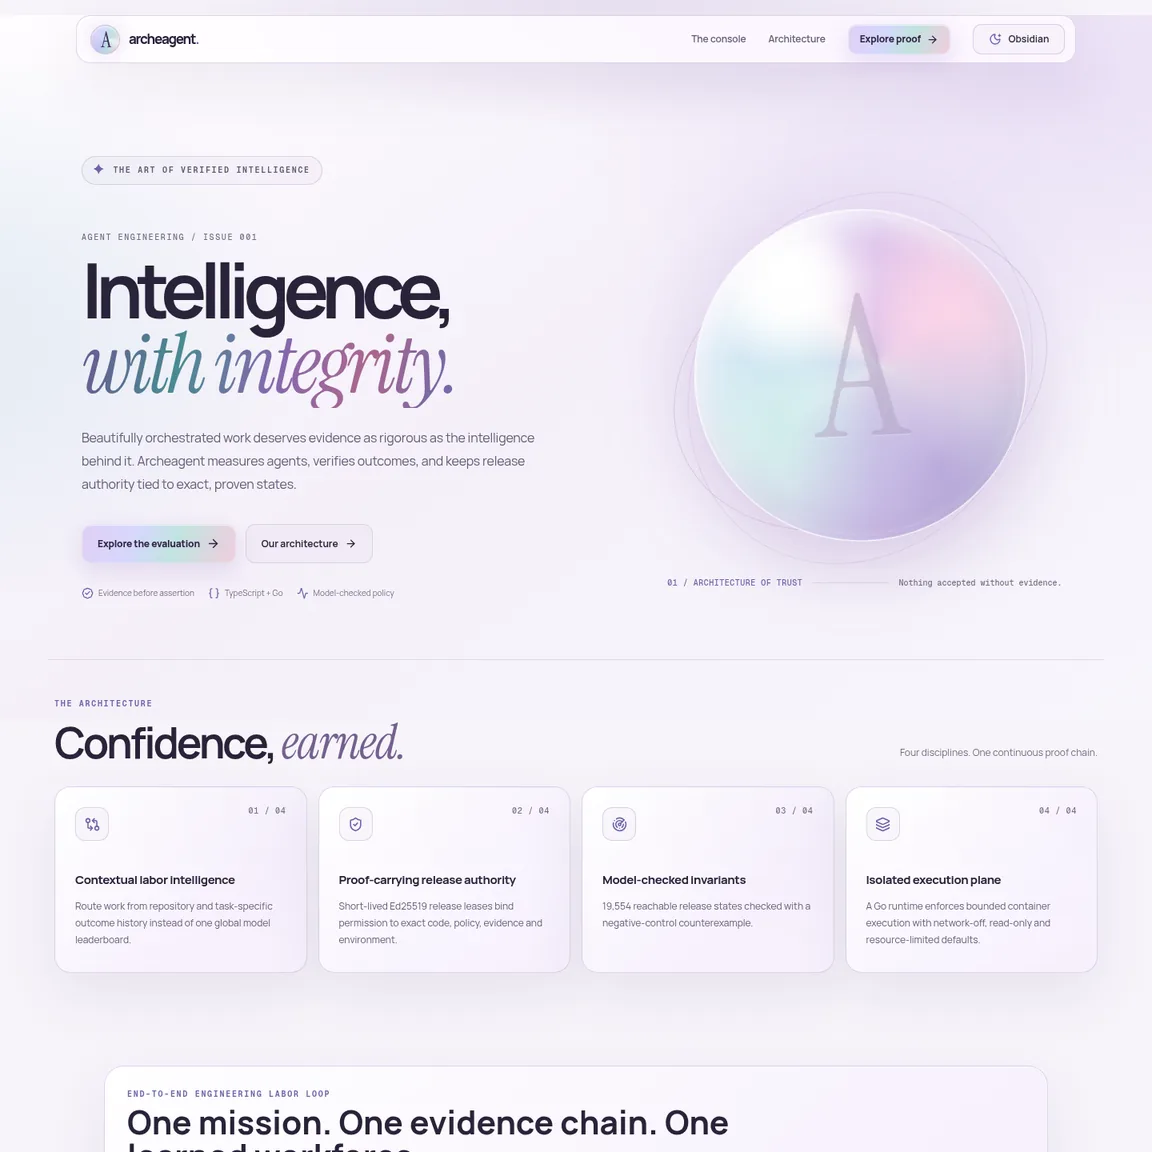
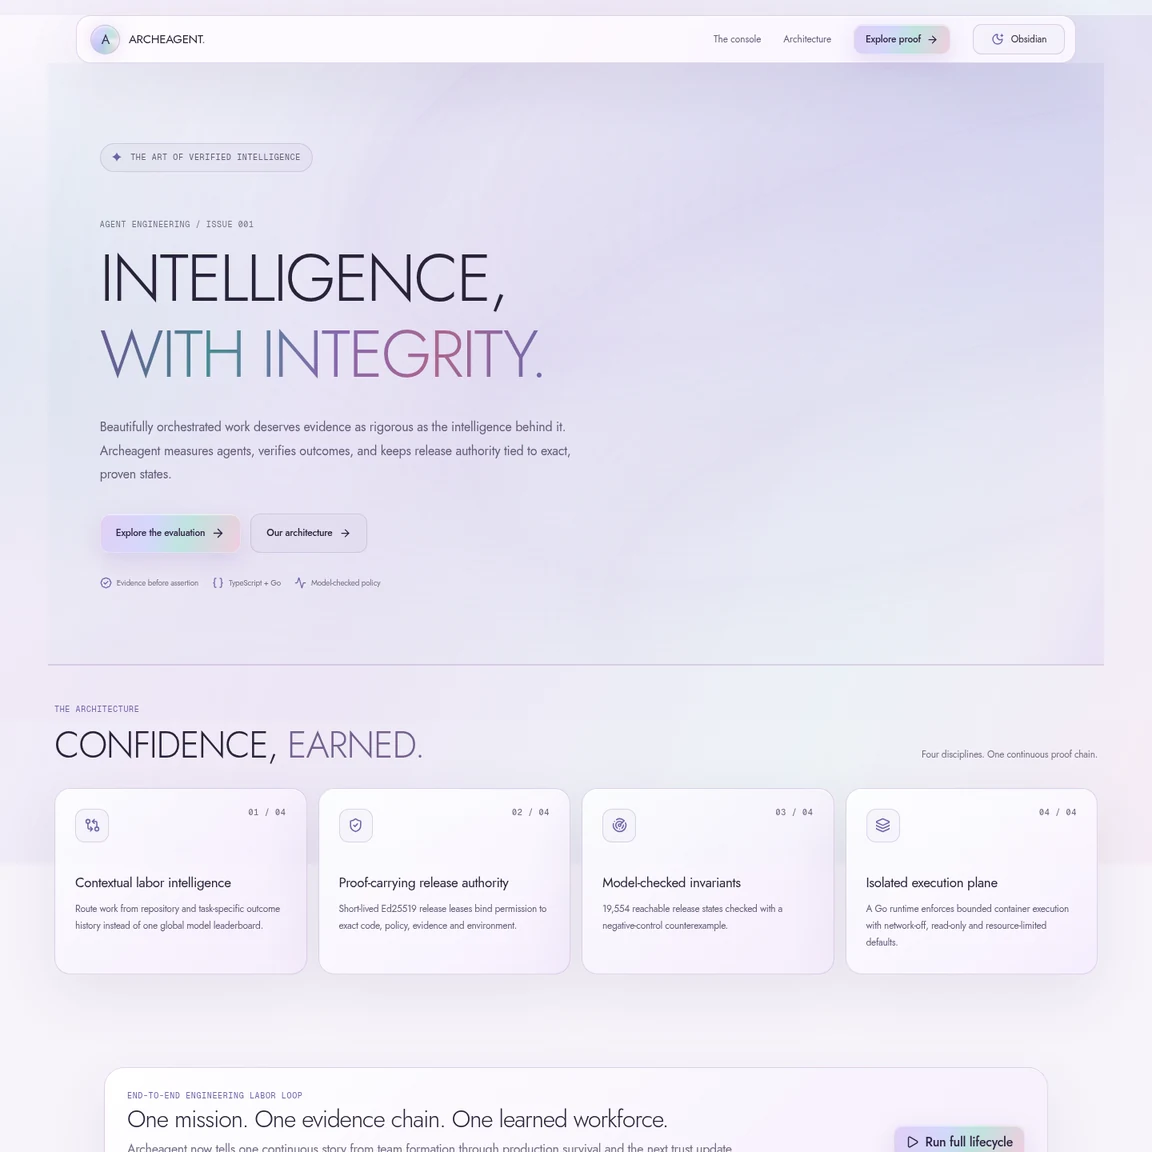
refine(ui): remove pearl sphere, adopt AXUNO display direction

diff --git a/src/app/pearl-theme.css b/src/app/pearl-theme.css
@@ -549,3 +549,207 @@ html[data-theme="light"] .gate-icon { color:#70619a; }
   .pearl-object { animation:none; }
   *, *::before, *::after { scroll-behavior:auto !important; transition-duration:.01ms !important; animation-duration:.01ms !important; }
 }
+
+
+/* -----------------------------------------------------------------------
+   AXUNO DESIGN SYSTEM / LICENSE-GATED DISPLAY FACE
+   The exact Axuno demo is personal-use only. CSS local() detects an already
+   installed licensed copy. A commercially licensed webfont must be added
+   separately, following docs/design/AXUNO_FONT.md.
+   ----------------------------------------------------------------------- */
+@font-face {
+  font-family: "Axuno";
+  src: local("Axuno"), local("Axuno Regular");
+  font-style: normal;
+  font-weight: 400;
+  font-display: swap;
+}
+:root { --font-display-axuno: "Axuno", var(--font-atelier), "Jost", sans-serif; }
+body {
+  font-family: var(--font-atelier), "Jost", sans-serif;
+  font-weight: 400;
+  letter-spacing: -0.018em;
+  font-feature-settings: "kern" 1;
+}
+.brand-wordmark,
+.hero h1,
+.section-intro h2,
+.architecture-copy h2 {
+  font-family: var(--font-display-axuno);
+  font-weight: 300;
+  font-style: normal;
+  font-synthesis: none;
+  letter-spacing: -0.027em;
+}
+.hero h1 {
+  font-size: clamp(47px, 5.7vw, 84px);
+  font-weight: 300;
+  letter-spacing: -0.034em;
+  line-height: 1.16;
+  max-width: 100%;
+}
+.hero h1 em {
+  font-family: inherit;
+  font-weight: inherit;
+  font-size: inherit;
+  line-height: inherit;
+  letter-spacing: inherit;
+  font-style: normal;
+}
+.brand-wordmark {
+  font-size: 15px;
+  letter-spacing: -0.019em;
+  font-weight: 400;
+}
+.brand-mark { font-family: var(--font-display-axuno); font-weight: 400; }
+.section-intro h2, .architecture-copy h2 {
+  font-family: var(--font-display-axuno);
+  font-size: clamp(29px, 3.5vw, 46px);
+  font-weight: 300;
+  letter-spacing: -0.03em;
+  line-height: 1.13;
+}
+.section-intro h2 em { font: inherit; font-style: normal; color:var(--editorial-accent); }
+.console-topbar h2, .lifecycle-header h2 {
+  font-family: var(--font-atelier), "Jost", sans-serif;
+  font-size: clamp(19px, 2.5vw, 30px);
+  font-weight: 300;
+  letter-spacing: -0.034em;
+}
+.nav-links, .theme-switch, .nav-cta,
+.primary-action, .secondary-action, .run-button, .capability-card h3 {
+  font-family: var(--font-atelier), "Jost", sans-serif;
+  letter-spacing: -0.02em;
+}
+.nav-links, .theme-switch { font-weight: 400; }
+.nav-cta, .primary-action, .secondary-action, .run-button { font-weight: 500; }
+.capability-card h3 { font-weight: 400; font-size: 17px; }
+.hero-badge, .eyebrow, .section-kicker, .hero-edition { letter-spacing: .065em; font-weight: 400; }
+
+/* Surface-wide holography. No standalone pearl ball. */
+.hero {
+  isolation: isolate;
+  overflow: hidden;
+  display: flex;
+  align-items: center;
+  min-height: 580px;
+  padding: 100px clamp(20px,4.5vw,65px) 94px;
+  border-bottom: 1px solid var(--holo-border);
+}
+.hero-copy-column { width: min(100%, 910px); z-index: 4; }
+.hero-material {
+  position: absolute;
+  inset: -8% -8% -8% 0;
+  overflow: hidden;
+  z-index: -1;
+  pointer-events: none;
+}
+.hero-material::before {
+  content:"";
+  position:absolute; inset: -40% -60%;
+  background:
+    radial-gradient(ellipse at 74% 41%, var(--holo-diffuse), transparent 39%),
+    conic-gradient(from 145deg at 78% 57%, transparent 0deg,
+      rgba(201,190,252,.10) 36deg,
+      rgba(148,218,233,.10) 48deg,
+      rgba(241,180,220,.12) 58deg,
+      transparent 70deg,
+      rgba(167,151,243,.08) 175deg,
+      transparent 213deg);
+  transform: rotate(-9deg);
+  filter: blur(24px);
+  opacity: .85;
+  animation: holo-field-drift 21s ease-in-out infinite alternate;
+}
+html[data-theme="light"] .hero-material::before {
+  background:
+    radial-gradient(ellipse at 71% 44%, rgba(207,178,243,.22), transparent 45%),
+    conic-gradient(from 155deg at 77% 55%, transparent 0deg,
+      rgba(204,236,244,.22) 35deg,
+      rgba(249,192,232,.24) 48deg,
+      rgba(206,187,249,.26) 58deg,
+      transparent 71deg,
+      rgba(166,216,221,.18) 175deg,
+      transparent 213deg);
+  opacity: 1;
+}
+.material-wave {
+  position: absolute;
+  left: 26%;
+  width: 92%;
+  height: 57%;
+  border-top: 1px solid var(--holo-border);
+  border-bottom: 1px solid rgba(192,184,242,.07);
+  border-radius: 47% 58% 44% 53%;
+  transform: rotate(-22deg);
+  opacity: .54;
+  box-shadow: 0 -24px 95px var(--holo-diffuse), inset 0 32px 75px var(--holo-diffuse);
+}
+.material-wave-one { top: -19%; animation: material-drift-one 22s ease-in-out infinite alternate; }
+.material-wave-two { top: 16%; left: 35%; transform: rotate(-18deg); opacity: .35; animation: material-drift-two 26s ease-in-out infinite alternate; }
+.material-wave-three { top: 46%; left: 45%; transform: rotate(-14deg); opacity: .26; animation: material-drift-one 30s ease-in-out infinite alternate-reverse; }
+.hero-art-caption {
+  position: absolute; bottom: 35px; left: 65%; right: 4%;
+  display: flex; align-items: center; gap: 12px;
+  color: var(--muted); font-size: 10px; white-space: nowrap;
+}
+@keyframes holo-field-drift {
+  0% { transform: translate3d(-2%,1%,0) rotate(-9deg) scale(1); }
+  100% { transform: translate3d(4%,-3%,0) rotate(-3deg) scale(1.07); }
+}
+@keyframes material-drift-one { 0% { translate: -1% 0; } 100% { translate: 3% -5%; } }
+@keyframes material-drift-two { 0% { translate: 0 2%; } 100% { translate: -2% -3%; } }
+
+/* Mother-of-pearl / obsidian interference lives across the entire viewport. */
+body::after {
+  content:""; position: fixed; inset: -20%;
+  pointer-events: none; z-index: 0; opacity: .41;
+  background:
+    linear-gradient(112deg, transparent 10%, rgba(155,127,229,.10) 34%,
+      rgba(111,207,220,.10) 45%, rgba(240,176,212,.09) 56%, transparent 72%),
+    radial-gradient(ellipse 55% 31% at 87% 10%, var(--pearl-halo),transparent 100%);
+  background-size: 170% 160%;
+  animation: nacre-wave-pass 25s ease-in-out infinite alternate;
+}
+html[data-theme="light"] body::after {
+  opacity: .73;
+  background:
+    linear-gradient(112deg, transparent 4%, rgba(190,163,230,.19) 32%,
+      rgba(170,232,226,.18) 47%, rgba(240,190,220,.21) 59%, transparent 86%),
+    radial-gradient(ellipse 55% 31% at 87% 10%, rgba(215,185,247,.19),transparent 100%);
+  background-size: 170% 160%;
+}
+@keyframes nacre-wave-pass {
+  from { background-position: 12% 20%; }
+  to { background-position: 90% 82%; }
+}
+.capability-card, .console-shell, .lifecycle-shell, .flow-node {
+  backdrop-filter: blur(10px) saturate(125%);
+}
+.capability-card::after {
+  opacity: .36;
+  background:linear-gradient(130deg,rgba(178,217,239,.09), transparent 38%,
+      rgba(201,152,239,.08) 62%,rgba(233,176,220,.09) 100%);
+  background-size: 210% 210%;
+  animation: nacre-wave-pass 29s ease-in-out infinite alternate;
+}
+html[data-theme="light"] .capability-card::after { opacity: .52; }
+@media (max-width:900px) {
+  .hero { min-height: 545px; padding: 72px 20px 68px; }
+  .hero h1 { font-size: clamp(44px, 7.2vw, 72px); }
+  .hero-art-caption { left: 42%; }
+}
+@media (max-width:680px) {
+  .brand-wordmark { font-size: 13px; }
+  .hero { min-height: 530px; padding: 67px 14px 65px; }
+  .hero h1 { font-size: clamp(39px, 9.6vw, 57px); letter-spacing: -.038em; }
+  .hero-copy { font-size: 13px; max-width: 370px; }
+  .hero-art-caption { left: 14px; right: 14px; bottom: 16px; white-space: normal; }
+  .hero-art-caption > span:last-child { max-width: 128px; }
+  .material-wave { left: 5%; width: 147%; opacity: .3; }
+}
+@media (prefers-reduced-motion: reduce) {
+  .hero-material::before, .material-wave, body::after, .capability-card::after {
+    animation: none !important;
+  }
+}

diff --git a/src/app/page.tsx b/src/app/page.tsx
@@ -49,7 +49,7 @@ export default function Home() {
       <nav className="nav-shell" aria-label="Primary">
         <a className="brand" href="#" aria-label="Archeagent home">
           <span className="brand-mark" aria-hidden="true"><span>A</span></span>
-          <span className="brand-wordmark">archeagent<span className="wordmark-dot">.</span></span>
+          <span className="brand-wordmark">ARCHEAGENT<span className="wordmark-dot">.</span></span>
         </a>
         <div className="nav-links">
           <a href="#console">The console</a>
@@ -63,7 +63,7 @@ export default function Home() {
         <div className="hero-copy-column">
           <div className="hero-badge"><span className="badge-sparkle" aria-hidden="true">✦</span> THE ART OF VERIFIED INTELLIGENCE</div>
           <p className="hero-edition">AGENT ENGINEERING / ISSUE 001</p>
-          <h1>Intelligence,<br /><em>with integrity.</em></h1>
+          <h1>INTELLIGENCE,<br /><em>WITH INTEGRITY.</em></h1>
           <p className="hero-copy">
             Beautifully orchestrated work deserves evidence as rigorous as the
             intelligence behind it. Archeagent measures agents, verifies outcomes,
@@ -79,14 +79,10 @@ export default function Home() {
             <span><Activity size={15} /> Model-checked policy</span>
           </div>
         </div>
-        <div className="hero-art" aria-hidden="true">
-          <span className="orb-horizon" />
-          <span className="orb-halo orb-halo-one" />
-          <span className="orb-halo orb-halo-two" />
-          <div className="pearl-object">
-            <span className="pearl-specular" />
-            <span className="pearl-core-letter">A</span>
-          </div>
+        <div className="hero-material" aria-hidden="true">
+          <span className="material-wave material-wave-one" />
+          <span className="material-wave material-wave-two" />
+          <span className="material-wave material-wave-three" />
           <div className="hero-art-caption">
             <span className="hero-art-index">01 / ARCHITECTURE OF TRUST</span>
             <span className="hero-art-rule" />
@@ -98,7 +94,7 @@ export default function Home() {
       <section className="capability-section" aria-labelledby="capabilities-heading">
         <div className="section-intro">
           <span className="section-kicker">THE ARCHITECTURE</span>
-          <h2 id="capabilities-heading">Confidence, <em>earned.</em></h2>
+          <h2 id="capabilities-heading">CONFIDENCE, <em>EARNED.</em></h2>
           <p>Four disciplines. One continuous proof chain.</p>
         </div>
         <div className="capability-grid">
@@ -157,7 +153,7 @@ export default function Home() {
       </section>
 
       <footer>
-        <div className="brand footer-brand"><span className="brand-mark"><span>A</span></span><span className="brand-wordmark">archeagent<span className="wordmark-dot">.</span></span></div>
+        <div className="brand footer-brand"><span className="brand-mark"><span>A</span></span><span className="brand-wordmark">ARCHEAGENT<span className="wordmark-dot">.</span></span></div>
         <p>Evidence first software delivery for AI-native engineering teams.</p>
       </footer>
     </main>

diff --git a/src/app/layout.tsx b/src/app/layout.tsx
@@ -1,10 +1,9 @@
 import type { Metadata } from "next";
-import { Geist_Mono, Instrument_Serif, Manrope } from "next/font/google";
+import { Geist_Mono, Jost } from "next/font/google";
 import "./globals.css";
 import "./pearl-theme.css";
 
-const manrope = Manrope({ variable: "--font-atelier", subsets: ["latin"], display: "swap" });
-const instrument = Instrument_Serif({ variable: "--font-editorial", subsets: ["latin"], weight: "400", style: ["normal", "italic"], display: "swap" });
+const jost = Jost({ variable: "--font-atelier", subsets: ["latin"], weight: ["300", "400", "500"], display: "swap" });
 const geistMono = Geist_Mono({ variable: "--font-geist-mono", subsets: ["latin"] });
 
 export const metadata: Metadata = {
@@ -19,7 +18,7 @@ export default function RootLayout({ children }: Readonly<{ children: React.Reac
       <head>
         <script dangerouslySetInnerHTML={{ __html: 'try { document.documentElement.dataset.theme = localStorage.getItem("archeagent-appearance") === "light" ? "light" : "dark"; } catch (_) { document.documentElement.dataset.theme = "dark"; }' }} />
       </head>
-      <body className={`${manrope.variable} ${instrument.variable} ${geistMono.variable}`}>{children}</body>
+      <body className={`${jost.variable} ${geistMono.variable}`}>{children}</body>
     </html>
   );
 }

diff --git a/docs/design/PEARL_DIRECTION.md b/docs/design/PEARL_DIRECTION.md
@@ -1,39 +1,43 @@
-# Archeagent visual language: Pearl / Obsidian
+# Archeagent / Holographic Obsidian and Mother of Pearl
 
-Two high-fidelity material finishes for the real Archeagent Next.js interface.
+This document shows real browser captures of the current Next.js UI branch,
+not generated static mockups.
 
-## Obsidian
+## Dark theme: holographic obsidian
 
-![Obsidian desktop browser capture](previews/obsidian-desktop.webp)
+![Obsidian desktop](previews/obsidian-desktop.webp)
 
-Deep mineral-black surfaces, low-chroma violet reflections, holographic mint, lilac and blush, with a restrained pearlescent glass finish.
+Full UI surface uses graphite/obsidian, oil-slick lilac, cyan and rose
+reflections, subtle slow waves and delicate glass borders.
 
-## Pearl
+## Light theme: mother-of-pearl
 
-![Pearl light desktop browser capture](previews/pearl-desktop.webp)
+![Light pearl desktop](previews/pearl-desktop.webp)
 
-Iridescent mother-of-pearl white, muted lavender, translucent porcelain cards, and readable ink-colored typography.
+Full UI surface is pearlescent ivory with nacre interference waves, muted
+lavender/rose/cyan and etched pane-like cards.
 
-## Mobile proofs
+## Mobile browser captures
 
-| Obsidian | Pearl |
+| Dark | Light |
 | --- | --- |
-| ![Obsidian on mobile](previews/obsidian-mobile.webp) | ![Pearl on mobile](previews/pearl-mobile.webp) |
+| ![Obsidian mobile](previews/obsidian-mobile.webp) | ![Pearl mobile](previews/pearl-mobile.webp) |
 
-## Typography
+## Font approval and licensing
 
-Manrope carries the product interface, navigation, buttons and body copy.
-Instrument Serif supplies the editorial accent in headings and monogram.
-Geist Mono remains for machine-readable status labels and verification values.
+The owner chose AXUNO by VPcreativeshop / Only Fonts for big display headings
+and brand typography. The commercial Webfont file is not yet supplied;
+screenshots use Jost 300 as a clearly identified fallback, NOT Axuno.
+Body copy uses Jost 400. Technical statuses use Geist Mono.
+See AXUNO_FONT.md for license and activation details.
 
-## Behavior
+## Functional QA
 
-- Both themes are implemented in CSS, not rendered images.
-- Theme switch is keyboard-accessible and persists the chosen appearance.
-- Holographic material is restrained to surface highlights and decorative artwork.
-- The real evaluation console, routes and release-policy semantics remain intact.
-- Reduced-motion preferences disable decorative pearl animation.
-- Local browser QA completed at 1440px and 393px; no page-level JS errors or horizontal overflow.
-- The feature demo remains a fixture, not a claim that independent live agents are running.
-
-Previews are browser captures of the implementation, not design mockups.
+- Actual Next.js production build and ESLint pass.
+- 10 focused Vitest tests pass.
+- Browser checks: 1440px desktop and 390px mobile.
+- Theme toggle persists across reloads.
+- No horizontal overflow or page JavaScript errors.
+- The previous decorative pearl sphere was removed entirely.
+- Existing eval console, API routes and Concord gate remain functional.
+- Respect reduced motion. Demo evaluation fixtures are not live model sessions.

diff --git a/docs/design/AXUNO_FONT.md b/docs/design/AXUNO_FONT.md
@@ -1,0 +1,35 @@
+# Approved Archeagent display face: Axuno
+
+The screenshot reference establishes Axuno by VPcreativeshop / Only Fonts as the
+exact intended display font. Its lightweight geometric uppercase letterforms
+belong on the brand mark and large headings, not every paragraph.
+
+License not yet provided or verified. Publicly available Axuno Demo is
+PERSONAL-USE ONLY. Do not include this demo in GitHub or in a commercial site.
+
+Official Webfont license:
+https://creativemarket.com/OnlyFonts/291697596-Axuno-%E2%80%93-Minimal-Elegant-Font
+
+## Current implementation
+
+- CSS declares Axuno with local() detection only. If a licensed copy is
+  installed on a preview machine, the genuine Axuno face will render locally.
+- Jost 300 is the geometric fallback on all other machines. It is NOT Axuno.
+- Jost 400/500 remains the legible text and controls typeface.
+- Geist Mono is reserved for technical labels and evidence IDs.
+- All prior Instrument Serif / Manrope display styling is removed.
+- Display letter spacing stays slightly tight, approximately -0.02 to -0.04em.
+
+## Activation of licensed font
+
+Once the appropriate Webfont licence is purchased and a licensed WOFF2 asset
+is supplied, place the WOFF2 in the app's font assets as permitted by license.
+Update the src of Axuno font-face in src/app/pearl-theme.css to use its
+licensed URL. The font is not bundled before this step. Do not share the font
+binary in conversation attachments or publicly without distribution rights.
+
+## Material design update
+
+The decorative pearl ball is removed. Dark mode is holographic obsidian glass
+across the interface. Light mode is mother-of-pearl nacre across the interface.
+Both use slow surface-wide interference waves and reduced-motion support.
